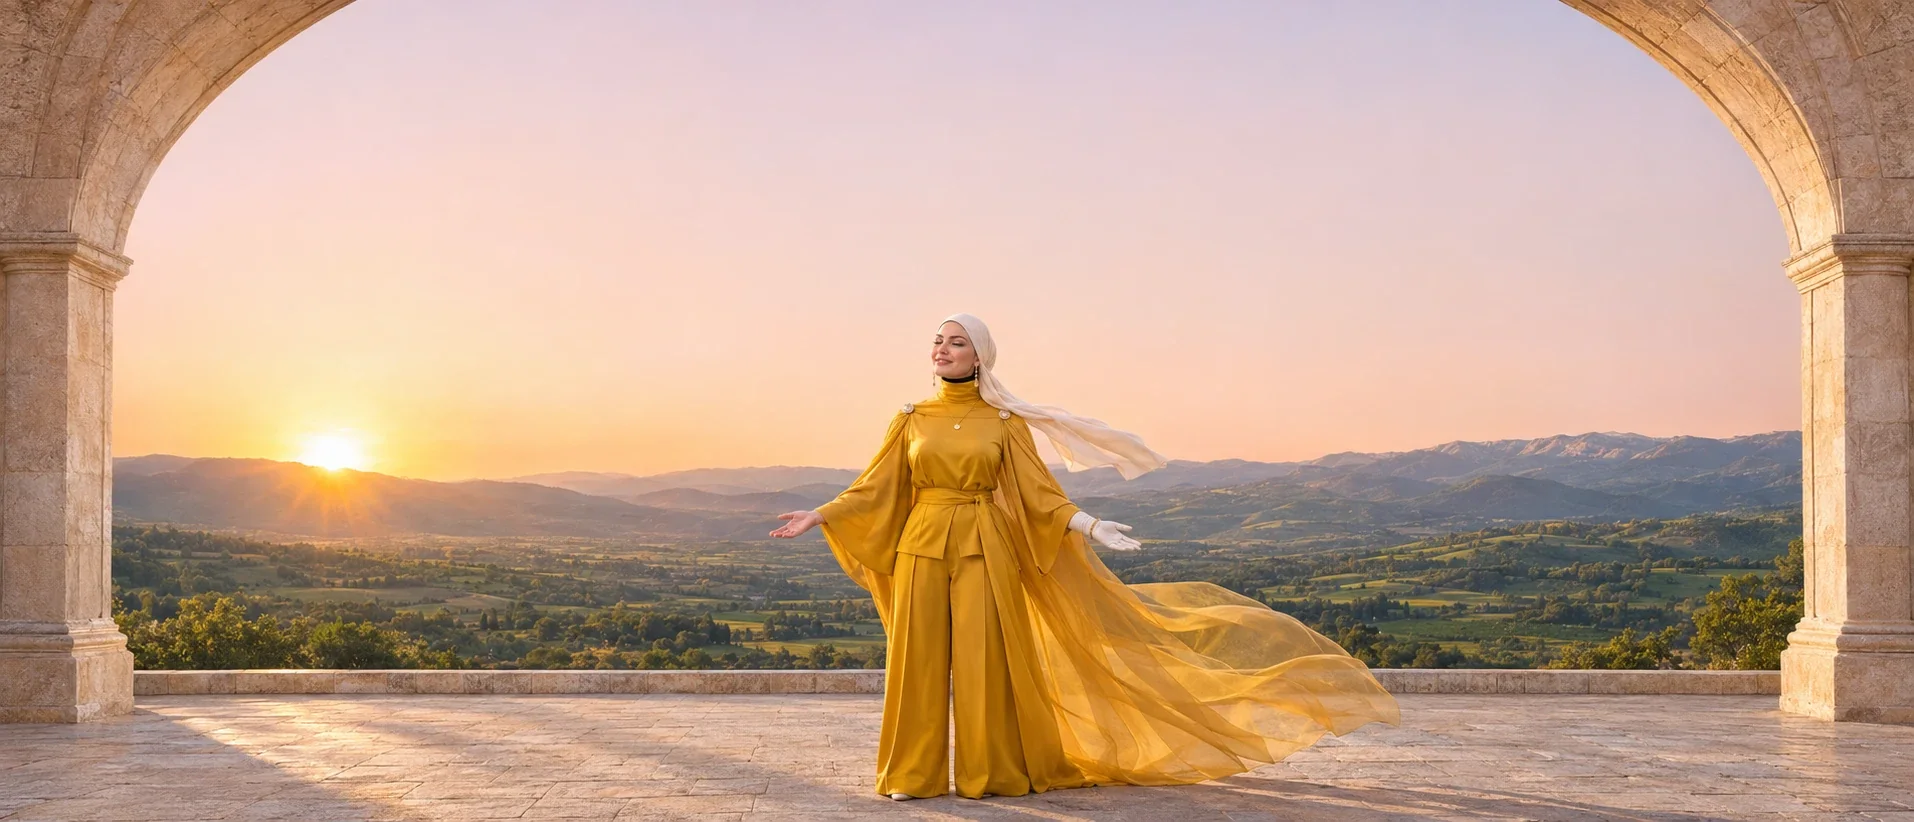
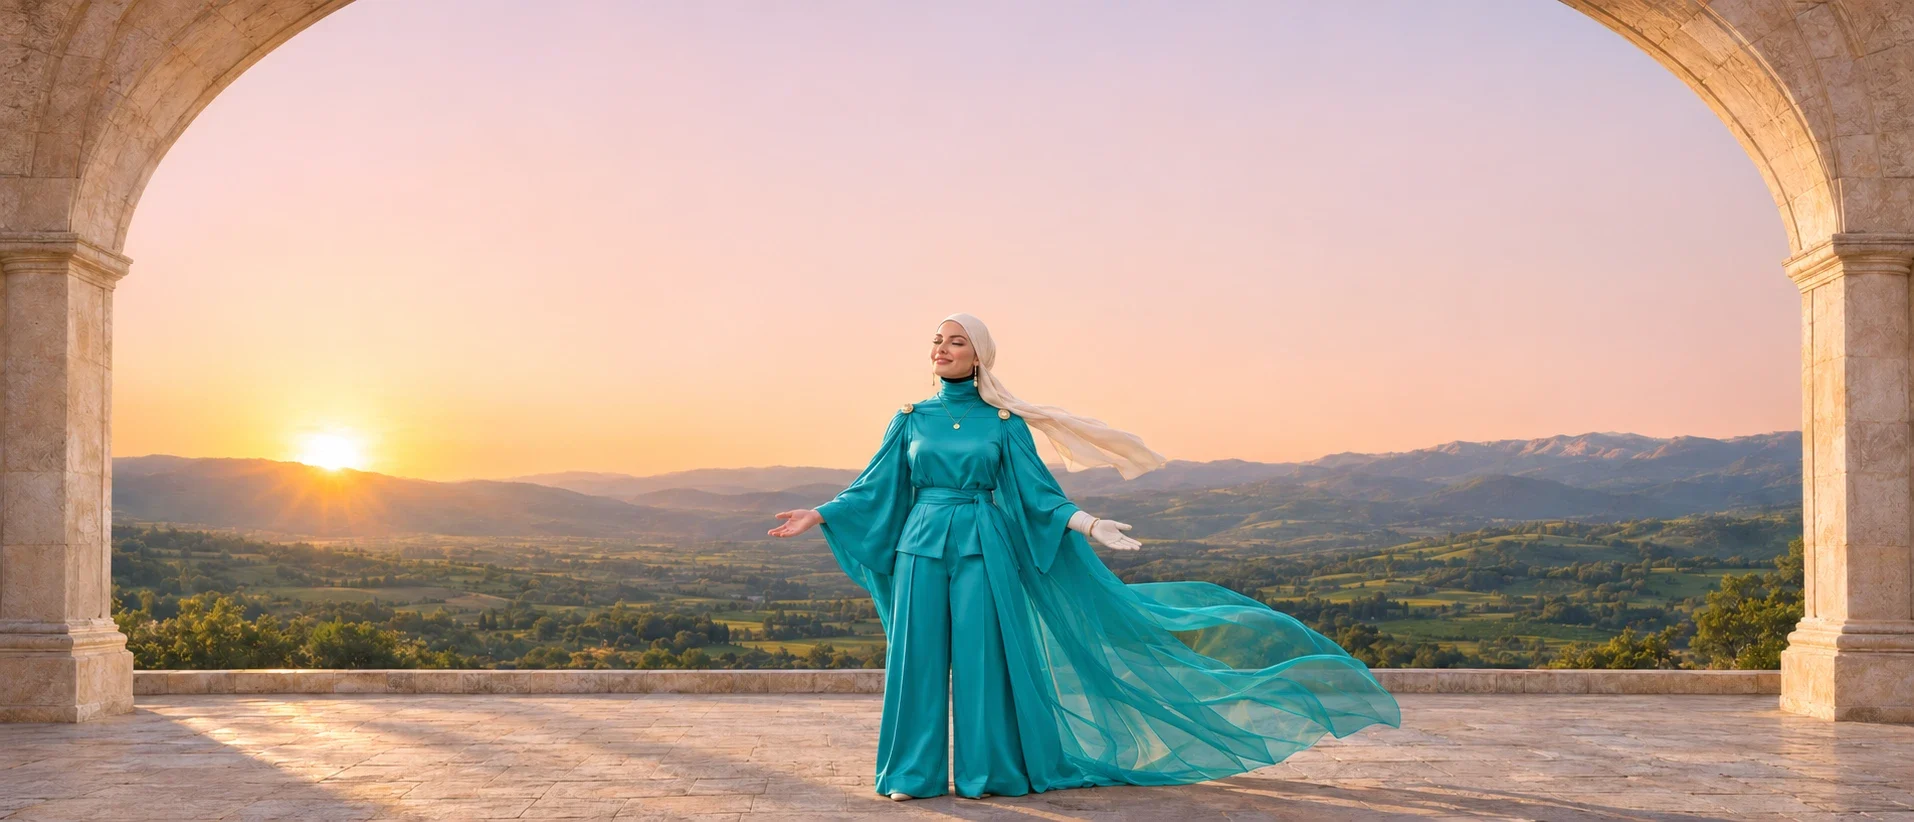
Journey: new teal sunrise photo + 'every sunrise' headline; hero headline on 3 lines; start immediately; remove New badge; clearer owned label
Claude-Session: https://claude.ai/code/session_01A132x5ytCNuR6agf1Xcpkr

diff --git a/site/_artifact_index.html b/site/_artifact_index.html
@@ -34,12 +34,12 @@
   <div class="hs-in">
     <div class="hs-photo"><img src="assets/img/coach-seated-cut.webp" alt="د. مرفت سرور" width="839" height="1129" fetchpriority="high"></div>
     <div class="hs-copy"><div class="hs-wm" aria-hidden="true"><span class="script">Mervat</span><span class="serif">Soror</span></div>
-      <h1>لديك الآن رفيق حقيقي في الرحلة <span class="gold">يحمل شعلة نور</span> ويمسك بيدك حتى تصل للجانب الآخر</h1>
+      <h1><span class="hs-line">لديك الآن رفيق حقيقي في الرحلة</span> <span class="gold hs-line">يحمل شعلة نور</span> <span class="hs-line">ويمسك بيدك حتى تصل للجانب الآخر</span></h1>
       <a class="btn-safia" href="vip.html">نوّر</a></div>
   </div>
 </section>
 <section class="band tint-blush"><div class="wrap">
-  <div class="head center"><span class="eyebrow center">ابدأ اليوم</span><h2 class="title">اختر أداتك، وابدأ خلال دقيقة</h2></div>
+  <div class="head center"><span class="eyebrow center">ابدأ اليوم</span><h2 class="title">اختر أداتك، وابدأ فوراً</h2></div>
   <div class="tabs" role="group" aria-label="تصنيف التمارين"><button class="tab" type="button" data-filter="all" aria-pressed="true">الكل</button><button class="tab" type="button" data-filter="course" aria-pressed="false">الكورسات</button><button class="tab" type="button" data-filter="decode" aria-pressed="false">Decoding</button><button class="tab" type="button" data-filter="priming" aria-pressed="false">Priming</button><button class="tab" type="button" data-filter="free" aria-pressed="false">فك التعلّق</button><button class="tab" type="button" data-filter="heal" aria-pressed="false">التشافي</button><button class="tab" type="button" data-filter="breath" aria-pressed="false">تنفّس وتأمل</button></div><div class="shelf" data-shelf="home"></div><div class="center-cta"><a class="btn btn-gold" href="library.html">عرض كل الأدوات</a></div></div></section>
 <section class="band"><div class="wrap statement"><span class="eyebrow center">من هي مرفت سرور؟</span>
   <h2>صوت هادئ يوقظ فيك <em>ما نسيته عن نفسك</em></h2>
@@ -80,8 +80,8 @@
 <section class="band book-band" style="margin-top:clamp(56px,8vw,110px)"><div class="wrap split"><div class="book3d"><div class="cover"><div class="face"><img src="assets/art/book.webp" alt="" width="600" height="800" loading="lazy"></div><div class="ttl"><b>عندما تولد في عائلة من الأشباح</b><small>د. مرفت سرور</small></div><div class="pages"></div></div></div>
   <div class="split-body"><span class="eyebrow">الكتاب</span><h2>عندما تولد في عائلة من الأشباح</h2><p class="lead">عن الموروث العائلي الذي نحمله دون أن نراه، وكيف نتحرر منه بوعي ورحمة. <span class="demo">نبذة مؤقتة</span></p>
     <div class="feats"><div class="feat"><svg class="icon"><use href="#i-book"/></svg><b>اقرأه داخل حسابك</b>على الهاتف أو الكمبيوتر</div><div class="feat"><svg class="icon"><use href="#i-lock"/></svg><b>نسخة باسمك</b>محمية وغير قابلة للتحميل</div><div class="feat"><svg class="icon"><use href="#i-mark"/></svg><b>يتذكّر صفحتك</b>تكمل من حيث توقفت</div></div><div class="buy"><span class="price" data-price="book-ghosts">349 ج.م</span><button class="btn btn-plum" type="button" data-buy="book-ghosts"><span>اشترِ الكتاب</span></button><a class="btn btn-line" href="reader.html">اقرأ الفصل الأول مجاناً</a></div></div></div></section>
-<section class="journey" aria-label="رحلتك تبدأ بقرار واحد"><img src="assets/img/journey.webp" alt="د. مرفت سرور على شرفة عند الشروق" width="1914" height="822" loading="lazy">
-  <div class="jr-copy"><h2>رحلتك تبدأ <span class="gold">بقرار واحد</span></h2><p>أنشئ حسابك المجاني واستلم هديتك الأولى فوراً</p></div><div class="jr-cta"><a class="btn btn-gold" href="register.html"><svg class="icon"><use href="#i-gift"/></svg>ابدأ الآن</a></div></section></main>
+<section class="journey" aria-label="كل شروق فرصة لتولد من جديد"><img src="assets/img/journey.webp" alt="د. مرفت سرور على شرفة عند الشروق" width="1914" height="822" loading="lazy">
+  <div class="jr-copy"><h2>كل شروق <span class="gold">فرصة</span> لتولد من جديد</h2><p>أنشئ حسابك المجاني واستلم هديتك الأولى فوراً</p></div><div class="jr-cta"><a class="btn btn-gold" href="register.html"><svg class="icon"><use href="#i-gift"/></svg>ابدأ الآن</a></div></section></main>
 <footer class="site-footer"><div class="wrap">
   <div class="f-grid">
     <div class="f-brand"><img src="assets/brand/logo-gold-transparent.webp" alt="د. مرفت سرور" width="158" height="118" loading="lazy" style="filter:drop-shadow(0 6px 18px rgba(0,0,0,.35))">

diff --git a/site/index.html b/site/index.html
@@ -36,12 +36,12 @@
   <div class="hs-in">
     <div class="hs-photo"><img src="assets/img/coach-seated-cut.webp" alt="د. مرفت سرور" width="839" height="1129" fetchpriority="high"></div>
     <div class="hs-copy"><div class="hs-wm" aria-hidden="true"><span class="script">Mervat</span><span class="serif">Soror</span></div>
-      <h1>لديك الآن رفيق حقيقي في الرحلة <span class="gold">يحمل شعلة نور</span> ويمسك بيدك حتى تصل للجانب الآخر</h1>
+      <h1><span class="hs-line">لديك الآن رفيق حقيقي في الرحلة</span> <span class="gold hs-line">يحمل شعلة نور</span> <span class="hs-line">ويمسك بيدك حتى تصل للجانب الآخر</span></h1>
       <a class="btn-safia" href="vip.html">نوّر</a></div>
   </div>
 </section>
 <section class="band tint-blush"><div class="wrap">
-  <div class="head center"><span class="eyebrow center">ابدأ اليوم</span><h2 class="title">اختر أداتك، وابدأ خلال دقيقة</h2></div>
+  <div class="head center"><span class="eyebrow center">ابدأ اليوم</span><h2 class="title">اختر أداتك، وابدأ فوراً</h2></div>
   <div class="tabs" role="group" aria-label="تصنيف التمارين"><button class="tab" type="button" data-filter="all" aria-pressed="true">الكل</button><button class="tab" type="button" data-filter="course" aria-pressed="false">الكورسات</button><button class="tab" type="button" data-filter="decode" aria-pressed="false">Decoding</button><button class="tab" type="button" data-filter="priming" aria-pressed="false">Priming</button><button class="tab" type="button" data-filter="free" aria-pressed="false">فك التعلّق</button><button class="tab" type="button" data-filter="heal" aria-pressed="false">التشافي</button><button class="tab" type="button" data-filter="breath" aria-pressed="false">تنفّس وتأمل</button></div><div class="shelf" data-shelf="home"></div><div class="center-cta"><a class="btn btn-gold" href="library.html">عرض كل الأدوات</a></div></div></section>
 <section class="band"><div class="wrap statement"><span class="eyebrow center">من هي مرفت سرور؟</span>
   <h2>صوت هادئ يوقظ فيك <em>ما نسيته عن نفسك</em></h2>
@@ -82,8 +82,8 @@
 <section class="band book-band" style="margin-top:clamp(56px,8vw,110px)"><div class="wrap split"><div class="book3d"><div class="cover"><div class="face"><img src="assets/art/book.webp" alt="" width="600" height="800" loading="lazy"></div><div class="ttl"><b>عندما تولد في عائلة من الأشباح</b><small>د. مرفت سرور</small></div><div class="pages"></div></div></div>
   <div class="split-body"><span class="eyebrow">الكتاب</span><h2>عندما تولد في عائلة من الأشباح</h2><p class="lead">عن الموروث العائلي الذي نحمله دون أن نراه، وكيف نتحرر منه بوعي ورحمة. <span class="demo">نبذة مؤقتة</span></p>
     <div class="feats"><div class="feat"><svg class="icon"><use href="#i-book"/></svg><b>اقرأه داخل حسابك</b>على الهاتف أو الكمبيوتر</div><div class="feat"><svg class="icon"><use href="#i-lock"/></svg><b>نسخة باسمك</b>محمية وغير قابلة للتحميل</div><div class="feat"><svg class="icon"><use href="#i-mark"/></svg><b>يتذكّر صفحتك</b>تكمل من حيث توقفت</div></div><div class="buy"><span class="price" data-price="book-ghosts">349 ج.م</span><button class="btn btn-plum" type="button" data-buy="book-ghosts"><span>اشترِ الكتاب</span></button><a class="btn btn-line" href="reader.html">اقرأ الفصل الأول مجاناً</a></div></div></div></section>
-<section class="journey" aria-label="رحلتك تبدأ بقرار واحد"><img src="assets/img/journey.webp" alt="د. مرفت سرور على شرفة عند الشروق" width="1914" height="822" loading="lazy">
-  <div class="jr-copy"><h2>رحلتك تبدأ <span class="gold">بقرار واحد</span></h2><p>أنشئ حسابك المجاني واستلم هديتك الأولى فوراً</p></div><div class="jr-cta"><a class="btn btn-gold" href="register.html"><svg class="icon"><use href="#i-gift"/></svg>ابدأ الآن</a></div></section></main>
+<section class="journey" aria-label="كل شروق فرصة لتولد من جديد"><img src="assets/img/journey.webp" alt="د. مرفت سرور على شرفة عند الشروق" width="1914" height="822" loading="lazy">
+  <div class="jr-copy"><h2>كل شروق <span class="gold">فرصة</span> لتولد من جديد</h2><p>أنشئ حسابك المجاني واستلم هديتك الأولى فوراً</p></div><div class="jr-cta"><a class="btn btn-gold" href="register.html"><svg class="icon"><use href="#i-gift"/></svg>ابدأ الآن</a></div></section></main>
 <footer class="site-footer"><div class="wrap">
   <div class="f-grid">
     <div class="f-brand"><img src="assets/brand/logo-gold-transparent.webp" alt="د. مرفت سرور" width="158" height="118" loading="lazy" style="filter:drop-shadow(0 6px 18px rgba(0,0,0,.35))">

diff --git a/site/assets/js/site.js b/site/assets/js/site.js
@@ -93,7 +93,7 @@ function card(p){
   return `<article class="scard" data-cat="${p.cat}">
     <div class="sc-img"><a class="ph${p.cover ? " has-cover" : ""}" href="${p.page}" aria-label="${esc(p.title)}"><img src="${p.cover || "assets/brand/logo-icon-gold.webp"}" alt="" loading="lazy"></a>
       <button class="sc-fav" type="button" data-fav="${p.id}" aria-pressed="false" aria-label="احفظ في المفضلة">${icon("heart")}</button>
-      ${p.isNew ? '<span class="sc-new">جديد</span>' : ''}${owned ? '<span class="sc-own">في مكتبتك</span>' : ''}</div>
+      ${owned ? '<span class="sc-own">✓ اشتريته</span>' : ''}</div>
     <div class="sc-tags"><span>${kind}</span><span>${esc(p.catLabel)}</span><span>Online</span></div>
     <h3><a href="${p.page}">${esc(p.title)}</a></h3>
     <span class="sc-meta">${icon("lessons")}${p.cardMeta ? esc(p.cardMeta) : ar(lessons) + " " + (lessons > 2 ? "دروس" : lessons == 2 ? "درسان" : "درس")}</span>

diff --git a/src/assets/js/site.js b/src/assets/js/site.js
@@ -93,7 +93,7 @@ function card(p){
   return `<article class="scard" data-cat="${p.cat}">
     <div class="sc-img"><a class="ph${p.cover ? " has-cover" : ""}" href="${p.page}" aria-label="${esc(p.title)}"><img src="${p.cover || "assets/brand/logo-icon-gold.webp"}" alt="" loading="lazy"></a>
       <button class="sc-fav" type="button" data-fav="${p.id}" aria-pressed="false" aria-label="احفظ في المفضلة">${icon("heart")}</button>
-      ${p.isNew ? '<span class="sc-new">جديد</span>' : ''}${owned ? '<span class="sc-own">في مكتبتك</span>' : ''}</div>
+      ${owned ? '<span class="sc-own">✓ اشتريته</span>' : ''}</div>
     <div class="sc-tags"><span>${kind}</span><span>${esc(p.catLabel)}</span><span>Online</span></div>
     <h3><a href="${p.page}">${esc(p.title)}</a></h3>
     <span class="sc-meta">${icon("lessons")}${p.cardMeta ? esc(p.cardMeta) : ar(lessons) + " " + (lessons > 2 ? "دروس" : lessons == 2 ? "درسان" : "درس")}</span>

diff --git a/site/assets/css/site.css b/site/assets/css/site.css
@@ -1450,3 +1450,5 @@ main:has(> .co-body:last-child)+.site-footer{margin-top:0}
 .hero-s .hs-photo::after{content:"";position:absolute;left:-10%;right:-10%;bottom:0;height:30%;background:radial-gradient(60% 100% at 50% 100%,rgba(226,198,140,.18),transparent 70%);pointer-events:none}
 .hero-s .hs-photo::before{-webkit-mask-image:linear-gradient(to bottom,#000 55%,transparent 100%);mask-image:linear-gradient(to bottom,#000 55%,transparent 100%)}
 @media (max-width:980px){.hero-s .hs-photo::after{display:none}}
+.hs-copy h1 .hs-line{display:block}
+@media (min-width:981px){.hero-s .hs-copy{max-width:680px}.hero-s .hs-copy h1{font-size:clamp(1.9rem,2.55vw,2.6rem)}.hs-copy h1 .hs-line{white-space:nowrap}}

diff --git a/src/assets/css/site.css b/src/assets/css/site.css
@@ -1450,3 +1450,5 @@ main:has(> .co-body:last-child)+.site-footer{margin-top:0}
 .hero-s .hs-photo::after{content:"";position:absolute;left:-10%;right:-10%;bottom:0;height:30%;background:radial-gradient(60% 100% at 50% 100%,rgba(226,198,140,.18),transparent 70%);pointer-events:none}
 .hero-s .hs-photo::before{-webkit-mask-image:linear-gradient(to bottom,#000 55%,transparent 100%);mask-image:linear-gradient(to bottom,#000 55%,transparent 100%)}
 @media (max-width:980px){.hero-s .hs-photo::after{display:none}}
+.hs-copy h1 .hs-line{display:block}
+@media (min-width:981px){.hero-s .hs-copy{max-width:680px}.hero-s .hs-copy h1{font-size:clamp(1.9rem,2.55vw,2.6rem)}.hs-copy h1 .hs-line{white-space:nowrap}}

diff --git a/tools/build_site.py b/tools/build_site.py
@@ -550,12 +550,12 @@ def home_body():
   <div class="hs-in">
     <div class="hs-photo"><img src="assets/img/coach-seated-cut.webp" alt="د. مرفت سرور" width="839" height="1129" fetchpriority="high"></div>
     <div class="hs-copy"><div class="hs-wm" aria-hidden="true"><span class="script">Mervat</span><span class="serif">Soror</span></div>
-      <h1>لديك الآن رفيق حقيقي في الرحلة <span class="gold">يحمل شعلة نور</span> ويمسك بيدك حتى تصل للجانب الآخر</h1>
+      <h1><span class="hs-line">لديك الآن رفيق حقيقي في الرحلة</span> <span class="gold hs-line">يحمل شعلة نور</span> <span class="hs-line">ويمسك بيدك حتى تصل للجانب الآخر</span></h1>
       <a class="btn-safia" href="vip.html">نوّر</a></div>
   </div>
 </section>
 <section class="band tint-blush"><div class="wrap">
-  <div class="head center"><span class="eyebrow center">ابدأ اليوم</span><h2 class="title">اختر أداتك، وابدأ خلال دقيقة</h2></div>
+  <div class="head center"><span class="eyebrow center">ابدأ اليوم</span><h2 class="title">اختر أداتك، وابدأ فوراً</h2></div>
   {tabs()}<div class="shelf" data-shelf="home"></div><div class="center-cta"><a class="btn btn-gold" href="library.html">عرض كل الأدوات</a></div></div></section>
 <section class="band"><div class="wrap statement"><span class="eyebrow center">من هي مرفت سرور؟</span>
   <h2>صوت هادئ يوقظ فيك <em>ما نسيته عن نفسك</em></h2>
@@ -596,8 +596,8 @@ def home_body():
 <section class="band book-band" style="margin-top:clamp(56px,8vw,110px)"><div class="wrap split">{book3d()}
   <div class="split-body"><span class="eyebrow">الكتاب</span><h2>عندما تولد في عائلة من الأشباح</h2><p class="lead">{BY["book-ghosts"]["short"]} <span class="demo">نبذة مؤقتة</span></p>
     {book_feats()}<div class="buy">{price("book-ghosts")}<button class="btn btn-plum" type="button" data-buy="book-ghosts"><span>اشترِ الكتاب</span></button><a class="btn btn-line" href="reader.html">اقرأ الفصل الأول مجاناً</a></div></div></div></section>
-<section class="journey" aria-label="رحلتك تبدأ بقرار واحد"><img src="assets/img/journey.webp" alt="د. مرفت سرور على شرفة عند الشروق" width="1914" height="822" loading="lazy">
-  <div class="jr-copy"><h2>رحلتك تبدأ <span class="gold">بقرار واحد</span></h2><p>أنشئ حسابك المجاني واستلم هديتك الأولى فوراً</p></div><div class="jr-cta"><a class="btn btn-gold" href="register.html">{ic("gift")}ابدأ الآن</a></div></section>'''
+<section class="journey" aria-label="كل شروق فرصة لتولد من جديد"><img src="assets/img/journey.webp" alt="د. مرفت سرور على شرفة عند الشروق" width="1914" height="822" loading="lazy">
+  <div class="jr-copy"><h2>كل شروق <span class="gold">فرصة</span> لتولد من جديد</h2><p>أنشئ حسابك المجاني واستلم هديتك الأولى فوراً</p></div><div class="jr-cta"><a class="btn btn-gold" href="register.html">{ic("gift")}ابدأ الآن</a></div></section>'''
 
 if __name__ == "__main__":
     build()
